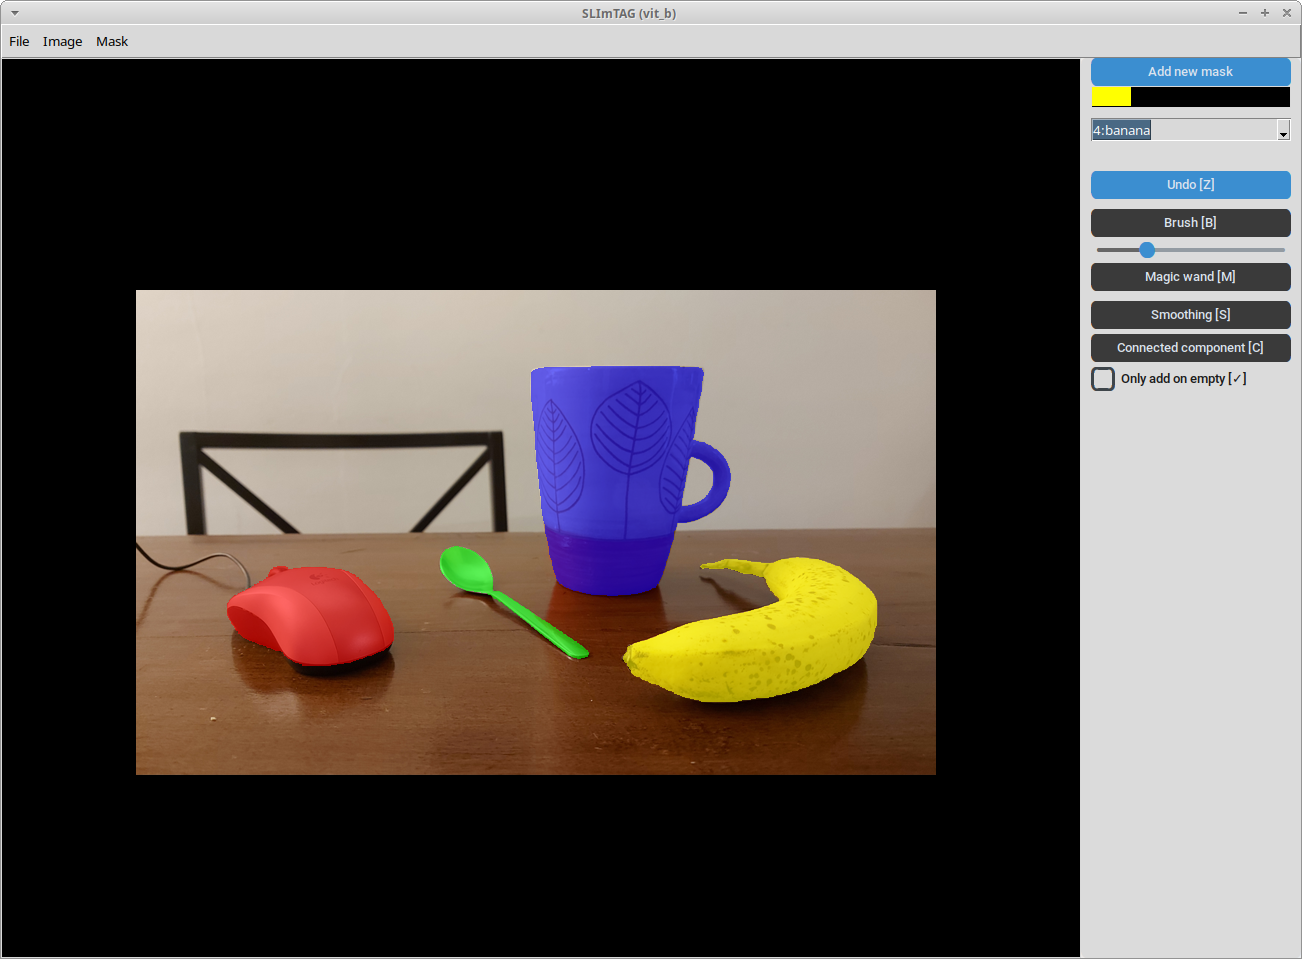
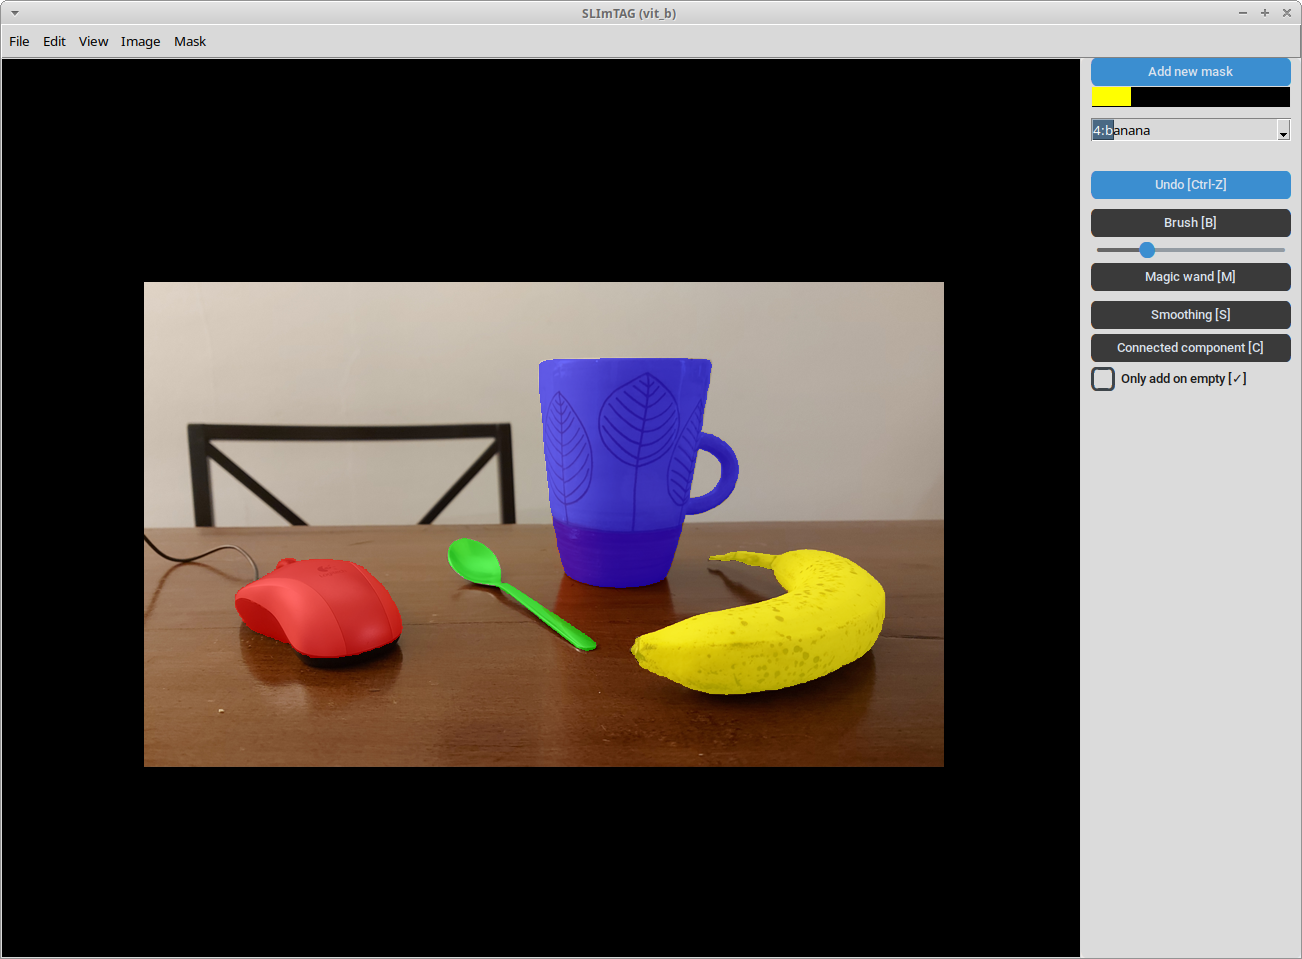
Change some shortcuts, rework top menu

diff --git a/SLImTag.py b/SLImTag.py
@@ -98,8 +98,18 @@ class SegmentationApp(ctk.CTk):
         
         # Menu File (top menu)
         file_menu = tk.Menu(self.menu_bar, tearoff=0)
-        file_menu.add_command(label="Quit", command=self.quit_program, accelerator="Q")
+        file_menu.add_command(label="Quit", command=self.quit_program, accelerator="Ctrl+Q")
         self.menu_bar.add_cascade(label="File", menu=file_menu)
+        # Menu Edit (top menu)
+        edit_menu = tk.Menu(self.menu_bar, tearoff=0)
+        edit_menu.add_command(label="Undo", command=self.undo, accelerator="Ctrl+Z")
+        self.menu_bar.add_cascade(label="Edit", menu=edit_menu)
+        # Menu View (top menu)
+        view_menu = tk.Menu(self.menu_bar, tearoff=0)
+        view_menu.add_command(label="Zoom in", command=self.zoom_in, accelerator="Ctrl++")
+        view_menu.add_command(label="Zoom out", command=self.zoom_out, accelerator="Ctrl+-")
+        view_menu.add_command(label="Reset zoom", command=self.reset_zoom, accelerator="Ctrl+0")
+        self.menu_bar.add_cascade(label="View", menu=view_menu)
         # Menu Image (top menu)
         image_menu = tk.Menu(self.menu_bar, tearoff=0)
         image_menu.add_command(label="Import image", command=self.load_image)
@@ -175,7 +185,7 @@ class SegmentationApp(ctk.CTk):
 
 
         # Undo button
-        ctk.CTkButton(self.panel, text="Undo [Z]", command=self.undo).pack(fill="x", padx=10, pady=5)
+        ctk.CTkButton(self.panel, text="Undo [Ctrl-Z]", command=self.undo).pack(fill="x", padx=10, pady=5)
 
 
         # Tool buttons
@@ -227,7 +237,8 @@ class SegmentationApp(ctk.CTk):
         
         # Zoom via keyboard (Ctrl + / Ctrl -)
         self.bind("<Control-plus>", self.zoom_in)
-        self.bind("<Control-equal>", self.reset_zoom)
+        #self.bind("<Control-equal>", self.reset_zoom) # usually it is Ctrl-0
+        self.bind("<Control-0>", self.reset_zoom)
         self.bind("<Control-space>", self.reset_zoom)
         self.bind("<Control-minus>", self.zoom_out)
         
@@ -250,12 +261,14 @@ class SegmentationApp(ctk.CTk):
         self.bind("<C>", lambda e: self.toggle_cc_mode())
         self.bind("<s>", lambda e: self.toggle_smoothing())
         self.bind("<S>", lambda e: self.toggle_smoothing())
-        self.bind("<z>", lambda e: self.undo())
-        self.bind("<Z>", lambda e: self.undo())
+        #self.bind("<z>", lambda e: self.undo()) # I actually prefer Ctrl-Z, but
+        #self.bind("<Z>", lambda e: self.undo()) # we can discuss about this. -Oscar
+        self.bind("<Control-z>", lambda e: self.undo())
+        self.bind("<Control-Z>", lambda e: self.undo())
         self.bind("<Control-S>", lambda e: self.save_mask())
         self.bind("<Control-s>", lambda e: self.save_mask())
-        self.bind("<q>", lambda e: self.quit_program())
-        self.bind("<Q>", lambda e: self.quit_program())
+        self.bind("<Control-q>", lambda e: self.quit_program())
+        self.bind("<Control-Q>", lambda e: self.quit_program())
         
         
         

diff --git a/README.md b/README.md
@@ -12,10 +12,10 @@
 
 - Add, select, and delete multiple tasks
 - Brush tool for manual painting.
-- Magic Wand (SAM) for AI-assisted segmentation.
+- Magic wand (SAM) for AI-assisted segmentation.
 - Connected Component tool for precise selection/removal.
 - Smoothing tool (dilation/erosion) for mask refinement.
-- Undo support with **Z shortcut**.
+- Undo support with **Ctrl-Z shortcut**.
 - Save masks and load masks
 - Minimal libraries requirements
 
@@ -103,7 +103,7 @@ Use the `Add new mask` button to create a new mask with a custom label. The drop
 
 ### Buttons
 
-Only one tool can be selected at a time. Clicking on the active tool button (or pressing the relative shortcut key) will deselect it. The `Undo` button (with <kbd>Z</kbd> shortcut) undoes the last operation.
+Only one tool can be selected at a time. Clicking on the active tool button (or pressing the relative shortcut key) will deselect it. The `Undo` button (also available under the `Edit` menu, or with the <kbd>Ctrl</kbd>+<kbd>Z</kbd> shortcut) undoes the last operation.
 
 | Button / Tool           | Description                        | Shortcut     | Left click                 | Right click                   |
 | ----------------------- | ---------------------------------- | ------------ | -------------------------- | ----------------------------- |
@@ -122,7 +122,7 @@ See table above for the left/right click actions associated with each tool. For 
 
 For the brush tool, click-and-drag with the **left** button follows the mouse movement. **Right** click is a bit more sluggish ― please use <kbd>Shift</kbd>+left click if needed.
 
-Scroll with the mouse wheel to zoom in/out of the image. Also <kbd>Ctrl</kbd>+<kbd>+</kbd> and <kbd>Ctrl</kbd>+<kbd>-</kbd> work for zoom in/out, and either <kbd>Ctrl</kbd>+<kbd>=</kbd> or <kbd>Ctrl</kbd>+<kbd>space</kbd> reset the zoom.
+Zoom is regulated via the `View` menu or by scrolling with the mouse wheel. Also <kbd>Ctrl</kbd>+<kbd>+</kbd> and <kbd>Ctrl</kbd>+<kbd>-</kbd> work for zoom in/out, and either <kbd>Ctrl</kbd>+<kbd>0</kbd> or <kbd>Ctrl</kbd>+<kbd>space</kbd> reset the zoom.
 
 When **no** tool is selected, left click-and-drag to pan the image.
 
@@ -149,6 +149,7 @@ When **no** tool is selected, left click-and-drag to pan the image.
 - [ ] When a mask is removed, a new mask additions should be placed on the first empty value of the list
 - [ ] Track if a mask is unsaved, and prompt a "There are unsaved changes to the mask. Quit anyway?" message accordingly (check to be added in `quit_program` method)
 - [ ] Allow "Clean Mask" undo
+- [ ] BUG: when undoing Brush, the first position does not get undone (and sometimes cannot be undone)
 
 ### Potential additional features
 - [ ] Different brush shapes (square)
